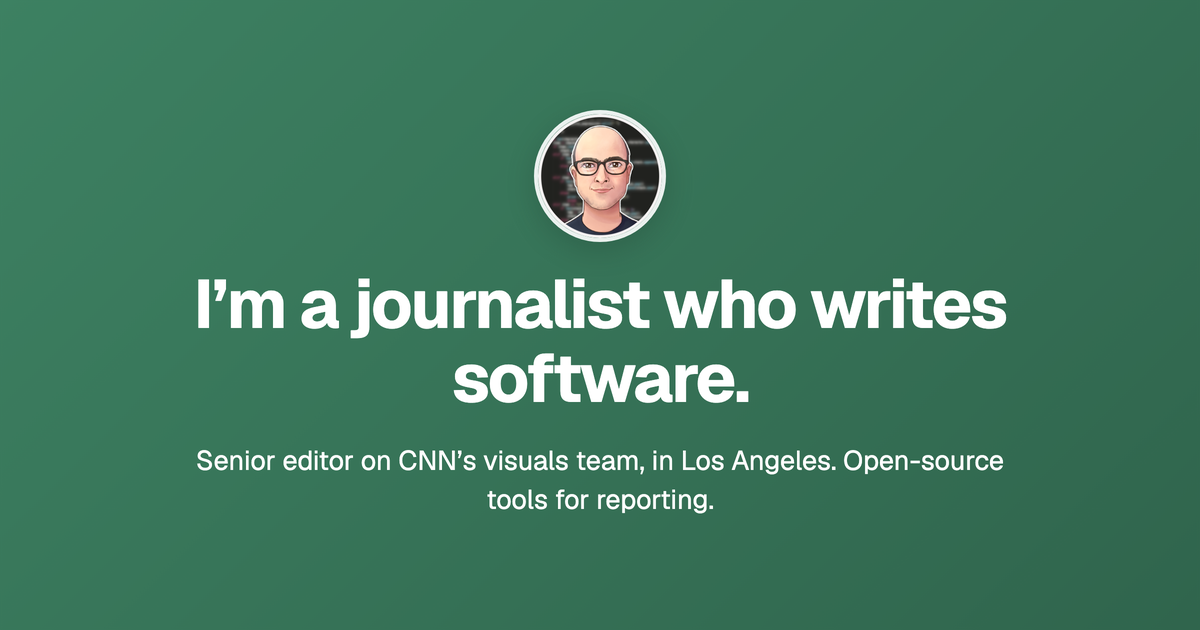
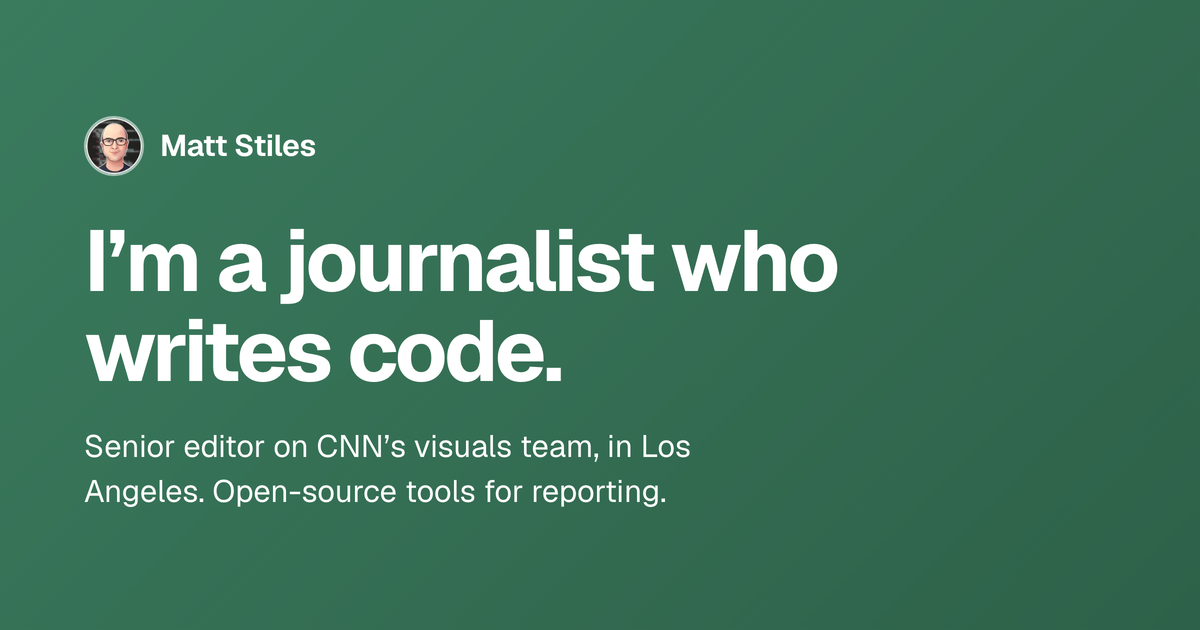
feat: rewrite the hero subline around range rather than title
The subline led with the CNN title and location, which the headline had already
made redundant and which said nothing about the range of the work. It now argues
that the reporting, editing, graphics and software stopped being separate jobs,
which is the actual claim the project grid below supports.

Experience is carried by that framing rather than by a year count or the word
"experienced," neither of which earns anything.

Moving the title out of the hero took the CNN credential off the visible page
entirely, so the About section now opens with it as a lead line and the first
column no longer restates it. The footer drops "Data journalist," the narrower
framing this rewrite moved away from, and keeps just the location.

Regenerates the social preview to match: left-aligned like the new hero, the
avatar as a small mark, and the credential the hero gave up. At exactly 1200x630
to match the declared meta, with the subline at full white -- at 92% it measured
4.1:1 against the lighter end of the gradient, and WCAG applies to images of
text too.

Changed region(s): [[0.0617, 0.1508, 0.8633, 0.6635], [0.0617, 0.6937, 0.8325, 0.8143], [0.0617, 0.181, 0.2775, 0.3016]]

diff --git a/_includes/about.html b/_includes/about.html
@@ -5,9 +5,11 @@
       <h2 class="section-title">Background</h2>
     </div>
 
+    <p class="about-lead">Senior editor on <a href="https://www.cnn.com/profiles/matt-stiles">CNN</a>'s visuals team, in Los Angeles, where I edit as often as I build.</p>
+
     <div class="about-columns">
       <div>
-        <p>I've spent years <a href="https://www.linkedin.com/in/matthustiles/">writing, coding and editing</a> data-driven and visual stories — at NPR, The Texas Tribune, <em>The Wall Street Journal</em> and the <em>Los Angeles Times</em> before <a href="https://www.cnn.com/profiles/matt-stiles">CNN</a>, where I edit as often as I build. Read my <a href="https://authory.com/MattStiles">stories</a> and <a href="https://mattstiles.me/chartfeed/">graphics</a>.</p>
+        <p>I've spent years <a href="https://www.linkedin.com/in/matthustiles/">writing, coding and editing</a> data-driven and visual stories — at NPR, The Texas Tribune, <em>The Wall Street Journal</em> and the <em>Los Angeles Times</em>. Read my <a href="https://authory.com/MattStiles">stories</a> and <a href="https://mattstiles.me/chartfeed/">graphics</a>.</p>
       </div>
       <div>
         <p>My work is storytelling with data, code and visuals, usually in Python and JavaScript. In 2012 I founded <a href="https://thedailyviz.com/">The Daily Viz</a>, a now-retired site of data stories. The software grew out of the reporting rather than alongside it: packages that pull records out of <a href="https://github.com/stiles/ezesri">government GIS portals</a> and <a href="https://github.com/stiles/pyfr24">flight databases</a>, scrapers that <a href="https://github.com/stiles/locations/">map a company's footprint</a>, <a href="https://dodgersdata.bot/">pipelines that keep publishing</a> after a story is filed, and a map of <a href="https://github.com/stiles/la-trees">1.6 million Los Angeles street trees</a>.</p>

diff --git a/_layouts/style.css b/_layouts/style.css
@@ -175,6 +175,17 @@ section {
   background-color: var(--paper-soft);
 }
 
+/* Carries the credential that left the hero when the subline was rewritten. */
+.about-lead {
+  max-width: 60ch;
+  margin: 0 0 1.75rem;
+  font-size: var(--step-2);
+  font-weight: 550;
+  line-height: 1.45;
+  letter-spacing: -0.01em;
+  color: var(--ink);
+}
+
 .about-columns {
   display: grid;
   gap: 1.5rem;

diff --git a/_includes/footer.html b/_includes/footer.html
@@ -3,7 +3,7 @@
     <div class="footer-top">
       <div>
         <span class="footer-name">{{ site.footer.copyright }}</span>
-        <span class="footer-role">Data journalist in {{ site.footer.location }}</span>
+        <span class="footer-role">{{ site.footer.location }}</span>
       </div>
       <div class="footer-social">
         {% for network in site.social %}
